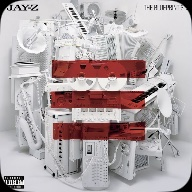
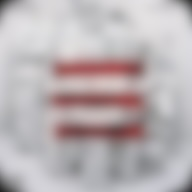
Blurred the demo's album covers before the first deploy
Blurred both covers in the files themselves, so the site never serves the sharp artwork; the colours and the glow stay.
Added the deploy checks and steps to the landing-page plan.

diff --git a/docs/specs/landing-page.md b/docs/specs/landing-page.md
@@ -319,7 +319,10 @@ running `Ember/NowPlaying/CoverColor.swift` on them, so the demo matches the app
 (Two earlier choices, an abstract slate-blue song and a sunset song, were replaced.)
 
 Album artwork belongs to its owners, not to Ember's GPL-3.0 licence; the user accepted
-that (2026-11-13). If an owner objects, the covers go back to abstract drawings.
+that (2026-11-13). Before the first deploy (2026-11-14) the cover files were blurred
+(Gaussian, radius 6 on the 192 px image, with Core Image), so the site never serves the
+sharp artwork: the colours and the glow stay, the details don't. If an owner objects, the
+covers go back to abstract drawings.
 
 ### Timings (one loop, 21.05 s)
 
@@ -468,7 +471,7 @@ replaced: the site moved to Ember rose with the new logo.)
 - `site/assets/`: the app icon in small sizes for the hero and the favicon, resized from
   the repo's `assets/` (Vercel only sees files inside `site/`). The link-preview image
   points at the full app icon on GitHub, because link previews need an absolute URL and
-  the site has no domain yet. `covers/` holds the demo songs' covers (192 px).
+  the site has no domain yet. `covers/` holds the demo songs' covers (192 px, blurred).
 - `.gitattributes` (repo root): hides `site/` from GitHub's language statistics.
 
 ## Credit

diff --git a/docs/plans/landing-page.md b/docs/plans/landing-page.md
@@ -3189,3 +3189,9 @@ button.hidden = false;
 
 - [x] **Step 1:** remove the `.more` block ("Already in Ember", "On the way") from `site/index.html` and its styles (`.more`, `.more h3`, `.more-list`) from `site/styles.css`. The "And many more" card stays.
 - [x] **Step 2: Check:** no `more-list` left in `site/`; screenshots of Features in light and dark; the 20 tests pass.
+
+## Part 7: Blurred covers, ready to deploy (2026-11-14)
+
+- [x] **Step 1:** blur `site/assets/covers/*.jpg` in place (Core Image `CIGaussianBlur`, radius 6, edges clamped, JPEG 85%), so the site serves no sharp album artwork.
+- [x] **Step 2: Checks before the first deploy:** every referenced file exists; no duplicate IDs; tags nest correctly; no personal paths or secrets in `site/`; no sideways scrolling at 320, 375, 390, 430, 768, 1024, 1280 and 1440 px in light and dark; the 20 tests pass. Found: the repo is private, so the GitHub links and the link-preview image return 404 until the user makes it public.
+- [ ] **Step 3: Deploy** — the user makes the repo public; a Vercel project linked to the repo with Root Directory `site` (no build); check the deployed page.
